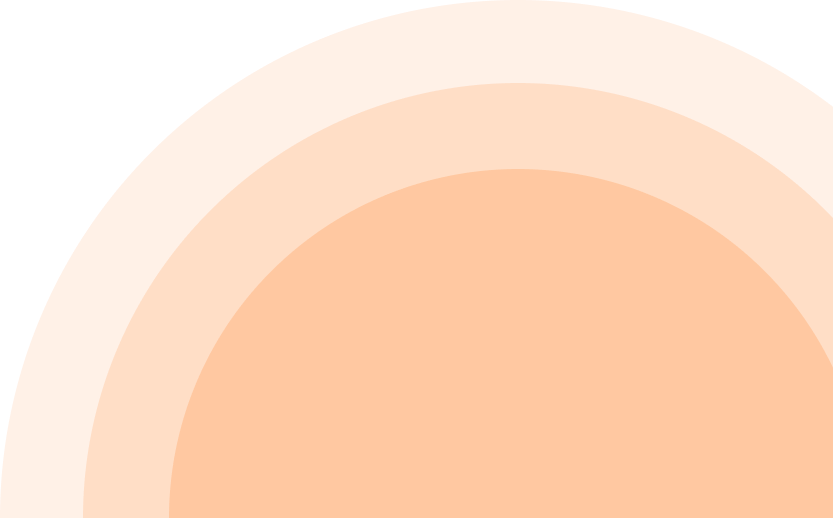
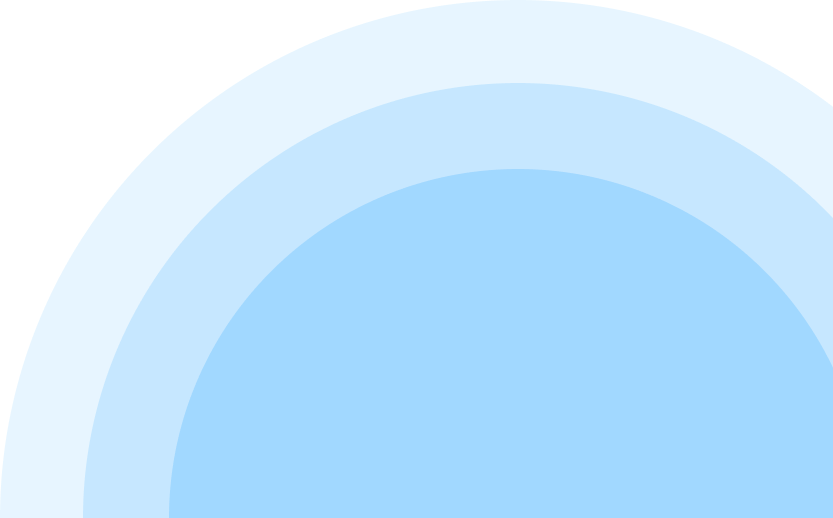
color and button style changed

diff --git a/index.html b/index.html
@@ -14,28 +14,62 @@
     <!-- font awesome link down below -->
     <script src="https://kit.fontawesome.com/ebe6a4855b.js" crossorigin="anonymous"></script>
 
+    <!-- Font awesome cdn -->
+    <link rel="stylesheet" href="https://cdnjs.cloudflare.com/ajax/libs/font-awesome/6.7.2/css/all.min.css"
+        integrity="sha512-Evv84Mr4kqVGRNSgIGL/F/aIDqQb7xQ2vcrdIwxfjThSH8CSR7PBEakCr51Ck+w+/U6swU2Im1vVX0SVk9ABhg=="
+        crossorigin="anonymous" referrerpolicy="no-referrer" />
+
+
 </head>
 
 <body class="open-sans-normal">
     <header class="header bg-color">
         <nav>
-            <h3 class="nav-title">Juba<span class="text-contrast">i</span>r</h3>
+            <a href="./index.html"><img class="nav-logo" src="./images/mjh-logo-blue.svg" alt="Nav Logo"></a>
             <ul>
                 <li id="portfolio"><a class="text-color" href="">Portfolio</a></li>
                 <li id="blog"><a class="text-color" href="">Blog</a></li>
-                <li><a class="text-color" href=""><button class="btn-primary">Hire Me</button></a></li>
+                <li><a target="_blank" rel="noopener" class="text-color"
+                        href="https://www.fiverr.com/mjh_shikder"><button class="btn-primary">Hire Me</button></a></li>
             </ul>
         </nav>
         <div class="banner">
             <div class="banner-content">
                 <h4 class="banner-greetings text-color">Hi, I am </h4>
-                <h2 class="banner-title">Md Jubair Hossain</h2>
+                <h2 class="banner-title">Md <span class="jubair">Jubair</span> Hossain</h2>
                 <p class="banner-description">
                     A creative 3D animator turned aspiring full-stack web developer. With over 5 years of experience as
                     a Level 2 Fiverr seller.
                 </p>
-                <button class="btn-primary"><i class="fa-solid fa-arrow-down"></i> Download CV</button>
+                <button class="btn-cv"><i class="fa-solid fa-arrow-down"></i> Download CV</button>
                 <button class="btn-primary"><i class="fa-solid fa-phone"></i> Contact</button>
+                <br> <br>
+
+
+                <section class="social-container">
+                    <a target="_blank" rel="noopener" href="https://www.facebook.com/mjhshikder/"><button
+                            class="btn-social"><i class="fa-brands fa-square-facebook"></i></button></a>
+
+                    <a target="_blank" rel="noopener" href="https://www.instagram.com/mjh_shikder/"><button
+                            class="btn-social"><i class="fa-brands fa-instagram"></i></button></a>
+
+                    <a target="_blank" rel="noopener" href="https://www.linkedin.com/in/mjh-shikder/"><button
+                            class="btn-social"><i class="fa-brands fa-linkedin"></i></button></a>
+
+                    <a target="_blank" rel="noopener" href="https://github.com/mjh-shikder"><button
+                            class="btn-social"><i class="fa-brands fa-github"></i></button></a>
+
+                    <a target="_blank" rel="noopener" href="https://unsplash.com/@mjh_shikder/"><button
+                            class="btn-social"><i class="fa-brands fa-unsplash"></i></button></a>
+
+                    <a target="_blank" rel="noopener" href="https://www.fiverr.com/mjh_shikder"><button
+                            class="btn-social"><i class="fa-solid fa-f"></i></button></a>
+
+                    <a target="_blank" rel="noopener" href="https://www.behance.net/mjh_shikder"><button
+                            class="btn-social"><i class="fa-brands fa-behance"></i></button></a>
+
+
+                </section>
             </div>
             <img class="banner-profile" src="./images/mjh-transparent.png" alt="">
         </div>
@@ -45,10 +79,10 @@
         <section class="about bg-color">
             <h3 class="section-title">About Me</h3>
             <p class="section-description">
-                I’ve specialized in crafting high-quality 3D spinning enamel pin and logo animations for clients around
+                I've specialized in crafting high-quality 3D spinning enamel pin and logo animations for clients around
                 the world.
 
-                Now, I’m expanding my skill set into full-stack web development, diving deep into building dynamic,
+                Now, I'm expanding my skill set into full-stack web development, diving deep into building dynamic,
                 responsive websites using modern technologies. My goal is to combine visual storytelling with functional
                 web solutions merging creativity with code.
             </p>
@@ -103,7 +137,7 @@
                     <img src="./images/icons/nodejs.png" alt="">
                     <h4 class="skill-title">Node.js</h4>
                     <p class="skill-description">A JavaScript runtime that lets me build server-side applications. With
-                        Node.js, I’m learning to handle server requests, create RESTful APIs, manage routing, and build
+                        Node.js, I'm learning to handle server requests, create RESTful APIs, manage routing, and build
                         the logic behind a web application.</p>
                 </div>
                 <div class="skill">
@@ -228,14 +262,26 @@
                 Monday through Friday.</p>
 
             <div>
-                <a target="_blank" rel="noopener" href="https://www.facebook.com/mjhshikder/"><img
-                        src="./images/icons/facebook.png" alt=""></a>
+                <a target="_blank" rel="noopener" href="https://www.facebook.com/mjhshikder/"><button
+                        class="btn-social"><i class="fa-brands fa-square-facebook"></i></button></a>
 
-                <a target="_blank" rel="noopener" href="https://www.instagram.com/mjh_shikder/"><img
-                        src="./images/icons/insta.png" alt=""></a>
+                <a target="_blank" rel="noopener" href="https://www.instagram.com/mjh_shikder/"><button
+                        class="btn-social"><i class="fa-brands fa-instagram"></i></button></a>
 
-                <a target="_blank" rel="noopener" href="https://x.com/mjh_shikder"><img src="./images/icons/twitter.png"
-                        alt=""></a>
+                <a target="_blank" rel="noopener" href="https://www.linkedin.com/in/mjh-shikder/"><button
+                        class="btn-social"><i class="fa-brands fa-linkedin"></i></button></a>
+
+                <a target="_blank" rel="noopener" href="https://github.com/mjh-shikder"><button class="btn-social"><i
+                            class="fa-brands fa-github"></i></button></a>
+
+                <a target="_blank" rel="noopener" href="https://unsplash.com/@mjh_shikder/"><button
+                        class="btn-social"><i class="fa-brands fa-unsplash"></i></button></a>
+
+                <a target="_blank" rel="noopener" href="https://www.fiverr.com/mjh_shikder"><button
+                        class="btn-social"><i class="fa-solid fa-f"></i></button></a>
+
+                <a target="_blank" rel="noopener" href="https://www.behance.net/mjh_shikder"><button
+                        class="btn-social"><i class="fa-brands fa-behance"></i></button></a>
             </div>
 
         </div>
@@ -257,6 +303,8 @@
     </footer>
 
     <!-- Footer End -->
+
 </body>
 
 </html>
+

diff --git a/styles/style.css b/styles/style.css
@@ -8,25 +8,28 @@
 
 /* shared style  */
 .bg-color {
-    background-color: #FFF8F3;
+    background-color: #f6fbff;
 }
 
-.text-contrast {
-    color: #FD6E0A;
-}
+/* .text-contrast {
+    color: #45b0fc;
+} */
 
 .text-color {
     color: #474747;
 }
 
 .text-color:hover {
-    color: #FD6E0A;
+    color: #45b0fc;
 }
 
+body {
 
+    margin: 0 auto;
+}
 
 .btn-primary {
-    background-color: #FD6E0A;
+    background-color: #45b0fc;
     font-weight: bold;
     color: white;
     padding: 18px 35px;
@@ -35,10 +38,49 @@
 }
 
 .btn-primary:hover {
-    background-color: #e65c00;
+    background-color: #388ecc;
     cursor: pointer;
-    box-shadow: 0px 0px 10px 0px #464646;
+    transform: scale(1.05);
+    /* box-shadow: 0px 0px 10px 0px #464646; */
 }
+
+.btn-cv{
+    box-sizing: border-box;
+    background-color: #ffffff;
+    font-weight: bold;
+    color: #45b0fc;
+    padding: 18px 35px;
+    border-radius: 8px;
+    border: solid #45b0fc 1px;
+    margin-right: 2px;
+}
+
+.btn-cv:hover{
+    /* background-color: #388ecc; */
+    cursor: pointer;
+    transform: scale(1.05);
+}
+
+.social-container {
+   
+}
+
+.btn-social {
+    background-color: #ffffff;
+    font-weight: bold;
+    color: #2b2b2b;
+    padding: 9px 10px;
+    border-radius: 8px;
+    border: 1px solid #2b2b2b;
+}
+
+.btn-social:hover {
+    background-color: #1f1f1f;
+    color: white;
+    cursor: pointer;
+    transform: scale(1.1);
+}
+
 
 .section-title {
     font-size: 35px;
@@ -60,15 +102,16 @@
 
 /* nav styles */
 nav {
+
     display: flex;
     align-items: center;
     justify-content: space-between;
     margin: 0px 200px;
 }
 
-.nav-title {
-    font-weight: 800;
-    font-size: 45px;
+.nav-logo {
+    width: 100px;
+
 }
 
 nav ul {
@@ -79,6 +122,11 @@ nav ul {
 /* nav h3 span {
     color: #FD6E0A;
 } */
+
+.jubair {
+    color: #45b0fc;
+
+}
 
 nav ul li {
     list-style: none;
@@ -94,9 +142,10 @@ nav li a {
 
 /* Header  */
 .header {
-    background-image: url(../images/developer.png), url(../images/header_bg.png);
+    background-image: url(../images/mjh-shikder-text.png), url(../images/header_bg.png);
     background-repeat: no-repeat;
     background-position: top left, bottom right;
+
 
 }
 
@@ -121,7 +170,7 @@ nav li a {
 
 .banner-title {
     font-size: 85px;
-    font-weight: 800;
+    font-weight: 00;
 
 }
 
@@ -161,14 +210,21 @@ main section {
 
 .item-title {
     font-size: 20px;
-    font-weight: 400;
+    font-weight: 600;
     margin-bottom: 10px;
-    color: #FD6E0A;
+    color: #45b0fc;
 
 }
-.item-description {
-    font-weight: 600;
 
+.item-description {
+    font-weight: 400;
+    color: #3a3a3a;
+
+}
+
+.item-description:hover {
+    transform: scale(1.1);
+    font-weight: 650;
 }
 
 /* Skill Section start */
@@ -179,8 +235,9 @@ main section {
 .skill-description {
     font-weight: 400;
     color: #525252;
-    
+
 }
+
 .skills-container {
     display: flex;
     gap: 24px;
@@ -192,13 +249,14 @@ main section {
     box-shadow: 0px 6px 50px 0px rgba(0, 0, 0, 0.06);
     border-radius: 10px;
     width: 18%;
-    /* flex: 1; cursor: pointer; */
+    margin-top: 35px;
+
 }
 
 .skill:hover {
     box-shadow: 0px 6px 50px 0px rgba(0, 0, 0, 0.2);
-    /* flex: 3; */
-    
+    transform: scale(1.1);
+
 }
 
 
@@ -272,4 +330,3 @@ footer textarea {
 footer textarea {
     height: 150px;
 }
-
